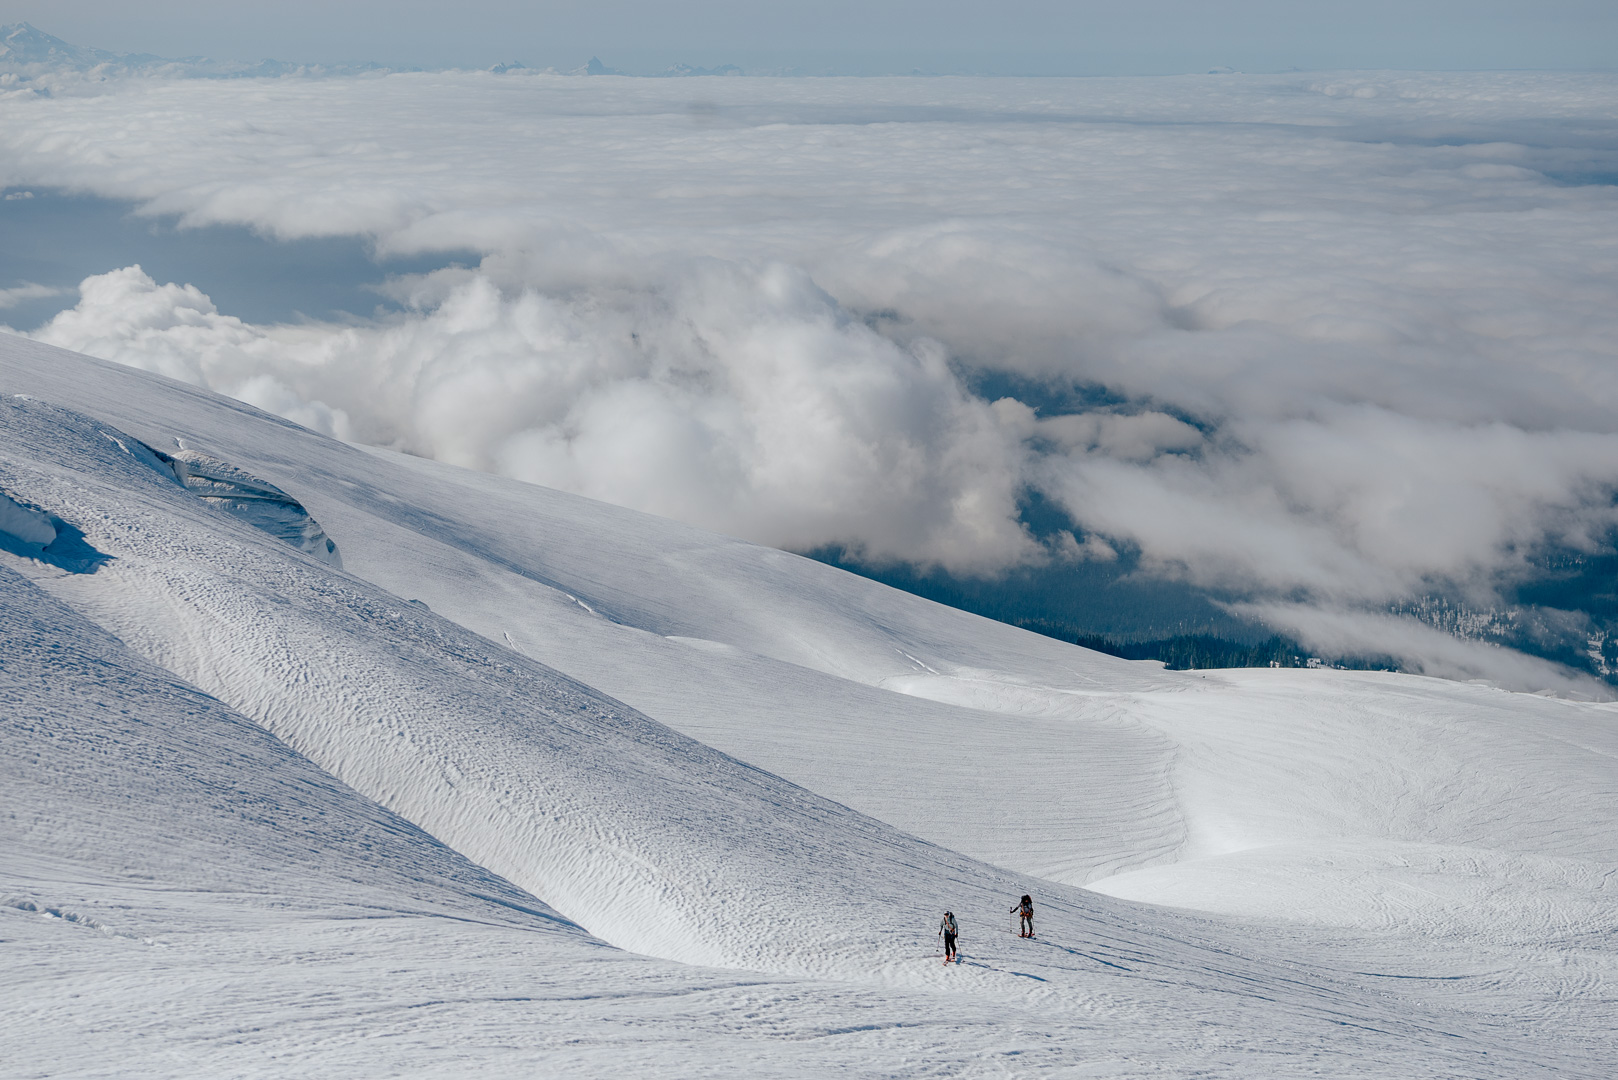
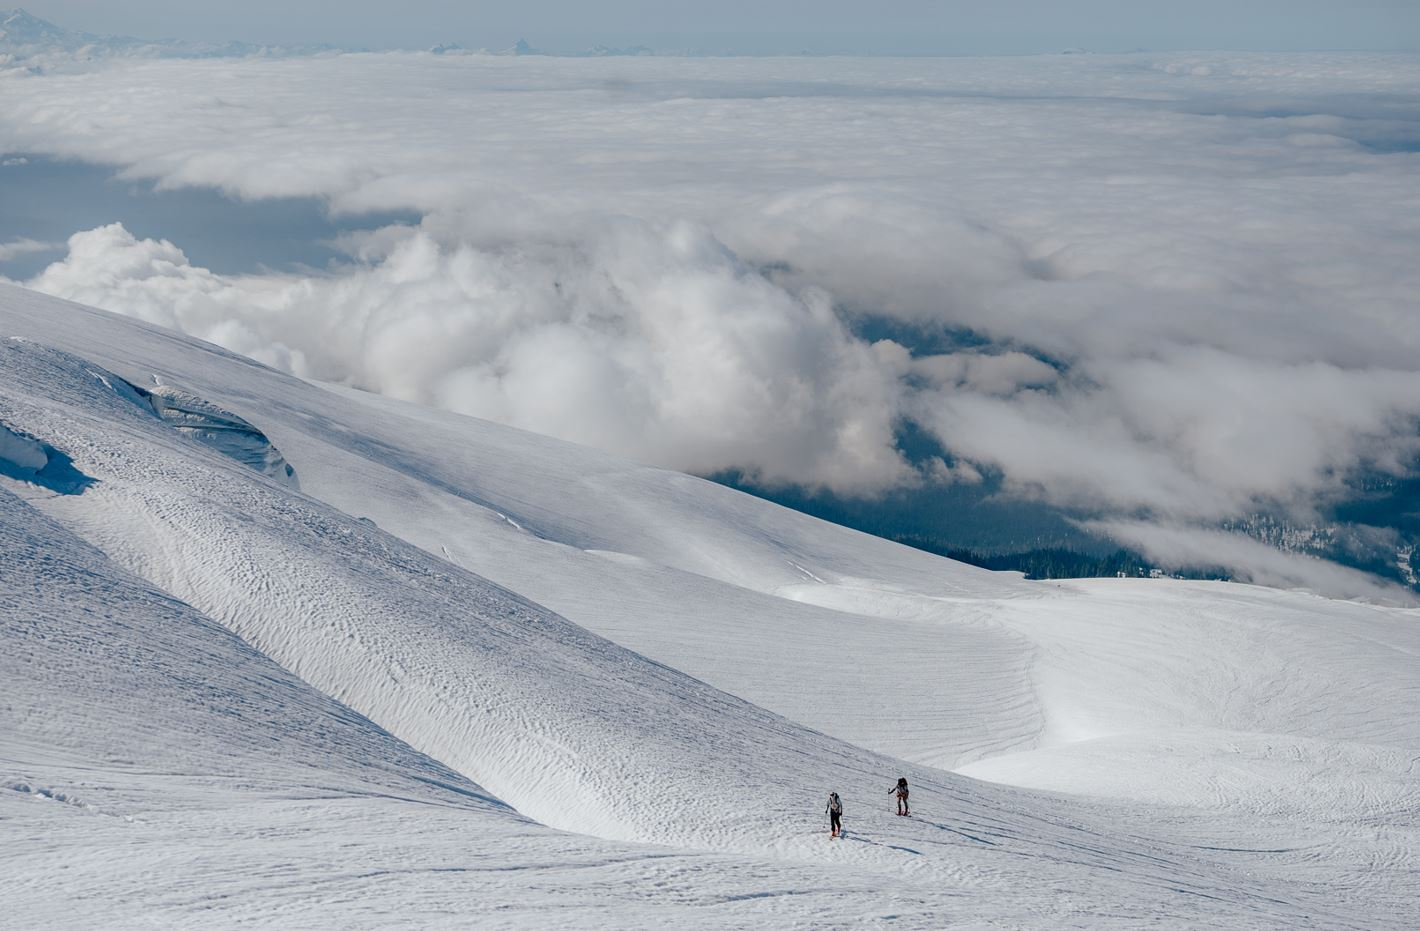
updating image sizes to load more quickly

diff --git a/src/pages/Landscapes.js b/src/pages/Landscapes.js
@@ -32,6 +32,11 @@ const Landscapes = () => {
 
   return (
     <div className="home-container">
+      <img
+        src='/images/landscapes/photo16.jpg'
+        alt={`High Camp below Glacier Peak`}
+        className="photo animate-on-scroll"
+      />
       {/* Featured Photos Section */}
       <section className="featured-photos">
         <PhotoSection photos={landscapePhotos} />
